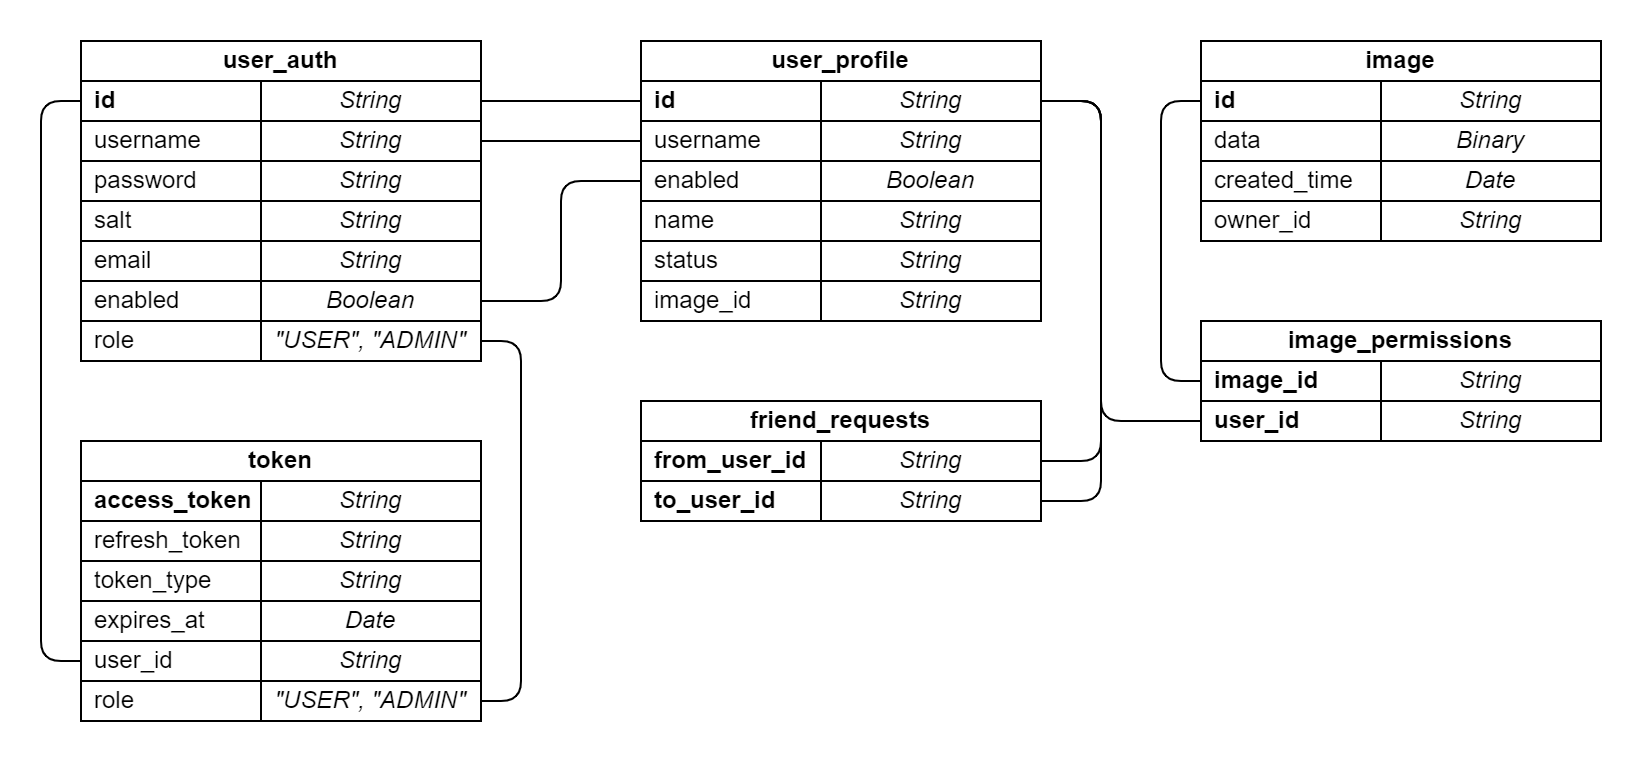
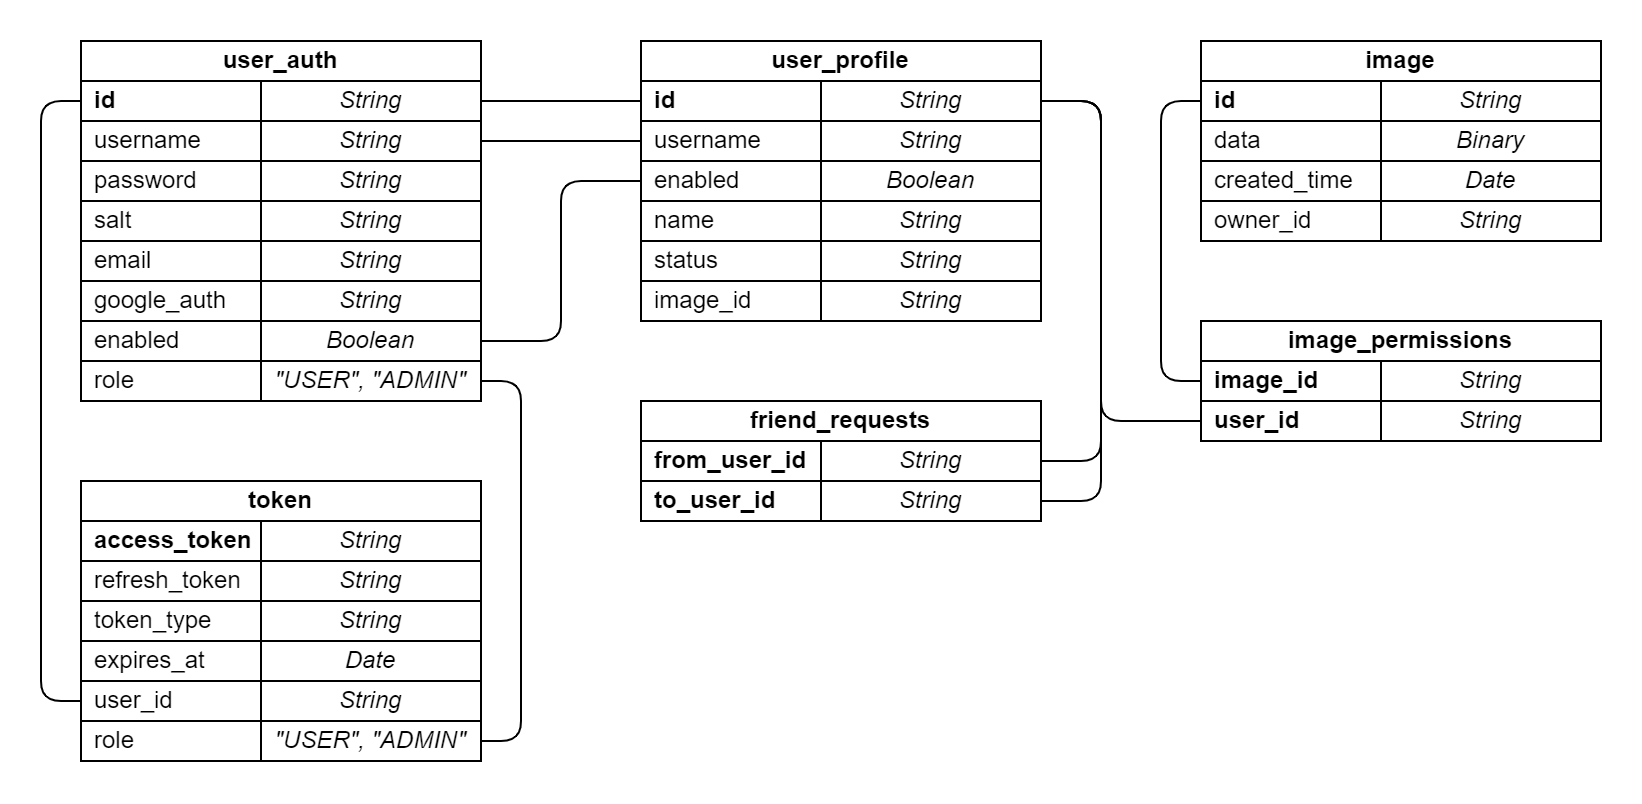
Added auth by Google

diff --git a/src/main/java/ru/drsanches/photobooth/auth/service/GoogleAuthWebService.java b/src/main/java/ru/drsanches/photobooth/auth/service/GoogleAuthWebService.java
@@ -1,0 +1,62 @@
+package ru.drsanches.photobooth.auth.service;
+
+import lombok.extern.slf4j.Slf4j;
+import org.springframework.beans.factory.annotation.Autowired;
+import org.springframework.stereotype.Service;
+import org.springframework.validation.annotation.Validated;
+import ru.drsanches.photobooth.auth.data.dto.GoogleAccessTokenDTO;
+import ru.drsanches.photobooth.auth.data.dto.TokenDTO;
+import ru.drsanches.photobooth.auth.data.model.UserAuth;
+import ru.drsanches.photobooth.auth.service.utils.GoogleAccessTokenValidator;
+import ru.drsanches.photobooth.common.integration.UserIntegrationService;
+import ru.drsanches.photobooth.common.token.TokenService;
+import ru.drsanches.photobooth.common.token.data.Role;
+import ru.drsanches.photobooth.common.token.data.Token;
+import ru.drsanches.photobooth.common.token.data.TokenMapper;
+
+import javax.validation.Valid;
+import java.util.UUID;
+
+@Slf4j
+@Service
+@Validated
+public class GoogleAuthWebService {
+
+    @Autowired
+    private UserAuthDomainService userAuthDomainService;
+
+    @Autowired
+    private UserIntegrationService userIntegrationService;
+
+    @Autowired
+    private GoogleAccessTokenValidator googleAccessTokenValidator;
+
+    @Autowired
+    private TokenService tokenService;
+
+    @Autowired
+    private TokenMapper tokenMapper;
+
+    public TokenDTO registration(@Valid GoogleAccessTokenDTO googleAccessTokenDTO) {
+        String email = googleAccessTokenValidator.getEmail(googleAccessTokenDTO.getAccessToken());
+        UserAuth userAuth = new UserAuth();
+        userAuth.setId(UUID.randomUUID().toString());
+        userAuth.setUsername(UUID.randomUUID().toString());
+        userAuth.setEmail(email);
+        userAuth.setGoogleAuth(email);
+        userAuth.setEnabled(true);
+        userAuth.setRole(Role.USER);
+        userIntegrationService.createUser(userAuth);
+        Token token = tokenService.createToken(userAuth.getId(), userAuth.getRole());
+        log.info("New user with id '{}' has been created", userAuth.getId());
+        return tokenMapper.convert(token);
+    }
+
+    public TokenDTO login(@Valid GoogleAccessTokenDTO googleAccessTokenDTO) {
+        UserAuth userAuth;
+        String email = googleAccessTokenValidator.getEmail(googleAccessTokenDTO.getAccessToken());
+        userAuth = userAuthDomainService.getEnabledByGoogleAuth(email);
+        Token token = tokenService.createToken(userAuth.getId(), userAuth.getRole());
+        return tokenMapper.convert(token);
+    }
+}

diff --git a/src/main/java/ru/drsanches/photobooth/auth/controller/GoogleAuthController.java b/src/main/java/ru/drsanches/photobooth/auth/controller/GoogleAuthController.java
@@ -1,0 +1,44 @@
+package ru.drsanches.photobooth.auth.controller;
+
+import io.swagger.v3.oas.annotations.Operation;
+import org.springframework.beans.factory.annotation.Autowired;
+import org.springframework.http.HttpStatus;
+import org.springframework.http.MediaType;
+import org.springframework.web.bind.annotation.RequestBody;
+import org.springframework.web.bind.annotation.RequestMapping;
+import org.springframework.web.bind.annotation.RequestMethod;
+import org.springframework.web.bind.annotation.ResponseStatus;
+import org.springframework.web.bind.annotation.RestController;
+import ru.drsanches.photobooth.auth.data.dto.GoogleAccessTokenDTO;
+import ru.drsanches.photobooth.auth.data.dto.TokenDTO;
+import ru.drsanches.photobooth.auth.service.GoogleAuthWebService;
+import ru.drsanches.photobooth.common.swagger.ApiResponseCode200;
+import ru.drsanches.photobooth.common.swagger.ApiResponseCode201;
+import ru.drsanches.photobooth.common.swagger.ApiResponseCode400;
+import ru.drsanches.photobooth.common.swagger.ApiResponseCode401;
+
+@RestController
+@RequestMapping(value = "/api/v1/auth/google", produces = MediaType.APPLICATION_JSON_VALUE)
+public class GoogleAuthController {
+
+    @Autowired
+    private GoogleAuthWebService googleAuthWebService;
+
+    @Operation(summary = "Registers new user account and returns user information")
+    @ApiResponseCode201
+    @ApiResponseCode400
+    @ResponseStatus(HttpStatus.CREATED)
+    @RequestMapping(value = "/registration", method = RequestMethod.POST)
+    public TokenDTO registration(@RequestBody GoogleAccessTokenDTO googleAccessTokenDTO) {
+        return googleAuthWebService.registration(googleAccessTokenDTO);
+    }
+
+    @Operation(summary = "Returns authorization tokens")
+    @ApiResponseCode200
+    @ApiResponseCode400
+    @ApiResponseCode401
+    @RequestMapping(value = "/login", method = RequestMethod.POST)
+    public TokenDTO login(@RequestBody GoogleAccessTokenDTO googleAccessTokenDTO) {
+        return googleAuthWebService.login(googleAccessTokenDTO);
+    }
+}

diff --git a/src/main/java/ru/drsanches/photobooth/auth/service/UserAuthDomainService.java b/src/main/java/ru/drsanches/photobooth/auth/service/UserAuthDomainService.java
@@ -5,6 +5,7 @@ import org.springframework.beans.factory.annotation.Autowired;
 import org.springframework.stereotype.Service;
 import ru.drsanches.photobooth.auth.data.model.UserAuth;
 import ru.drsanches.photobooth.auth.data.repository.UserAuthRepository;
+import ru.drsanches.photobooth.exception.auth.NoGoogleUserException;
 import ru.drsanches.photobooth.exception.application.NoUserIdException;
 import ru.drsanches.photobooth.exception.application.NoUsernameException;
 import java.util.Optional;
@@ -33,6 +34,14 @@ public class UserAuthDomainService {
         Optional<UserAuth> user = userAuthRepository.findByUsername(username);
         if (user.isEmpty() || !user.get().isEnabled()) {
             throw new NoUsernameException(username);
+        }
+        return user.get();
+    }
+
+    public UserAuth getEnabledByGoogleAuth(String googleAuth) {
+        Optional<UserAuth> user = userAuthRepository.findByGoogleAuth(googleAuth);
+        if (user.isEmpty() || !user.get().isEnabled()) {
+            throw new NoGoogleUserException();
         }
         return user.get();
     }

diff --git a/src/main/java/ru/drsanches/photobooth/auth/service/utils/GoogleAccessTokenValidator.java b/src/main/java/ru/drsanches/photobooth/auth/service/utils/GoogleAccessTokenValidator.java
@@ -1,0 +1,28 @@
+package ru.drsanches.photobooth.auth.service.utils;
+
+import lombok.Getter;
+import org.springframework.stereotype.Component;
+import org.springframework.web.client.RestTemplate;
+import ru.drsanches.photobooth.exception.auth.GoogleAuthException;
+
+@Component
+public class GoogleAccessTokenValidator {
+
+    //TODO: Fix injection?
+    private final static String URL = "https://www.googleapis.com/oauth2/v3/tokeninfo?access_token=%s";
+
+    public String getEmail(String token) {
+        try {
+            ResponseDTO response = new RestTemplate().getForObject(String.format(URL, token), ResponseDTO.class);
+            return response == null ? null : response.getEmail();
+        } catch (Exception e) {
+            throw new GoogleAuthException(e);
+        }
+    }
+
+    @Getter
+    static class ResponseDTO {
+
+        private String email;
+    }
+}

diff --git a/src/main/java/ru/drsanches/photobooth/exception/application/UserAlreadyExistsException.java b/src/main/java/ru/drsanches/photobooth/exception/application/UserAlreadyExistsException.java
@@ -2,13 +2,13 @@ package ru.drsanches.photobooth.exception.application;
 
 public class UserAlreadyExistsException extends ApplicationException {
 
-    private final static String FORMAT = "Username '%s' already exists";
+    private final static String FORMAT = "User '%s' already exists";
 
-    public UserAlreadyExistsException(String username) {
-        super(String.format(FORMAT, username));
+    public UserAlreadyExistsException(String user) {
+        super(String.format(FORMAT, user));
     }
 
-    public UserAlreadyExistsException(String username, Exception cause) {
-        super(String.format(FORMAT, username), cause);
+    public UserAlreadyExistsException(String user, Exception cause) {
+        super(String.format(FORMAT, user), cause);
     }
 }

diff --git a/src/main/java/ru/drsanches/photobooth/config/WebSecurityConfig.java b/src/main/java/ru/drsanches/photobooth/config/WebSecurityConfig.java
@@ -30,6 +30,8 @@ public class WebSecurityConfig extends WebSecurityConfigurerAdapter {
             x -> x.matches("/api/v1/auth/registration.*"))
             .or(x -> x.matches("/api/v1/auth/login.*"))
             .or(x -> x.matches("/api/v1/auth/refreshToken.*"))
+            .or(x -> x.matches("/api/v1/auth/google/registration.*"))
+            .or(x -> x.matches("/api/v1/auth/google/login.*"))
             .or(x -> x.matches("/api/v1/image/" + ImageInfoMapper.DEFAULT_AVATAR_ID))
             .or(x -> x.matches("/api/v1/image/" + ImageInfoMapper.NO_PHOTO_IMAGE_ID))
             .or(x -> x.matches("/api/v1/image/" + ImageInfoMapper.DELETED_AVATAR_ID))

diff --git a/src/main/java/ru/drsanches/photobooth/common/integration/UserIntegrationService.java b/src/main/java/ru/drsanches/photobooth/common/integration/UserIntegrationService.java
@@ -38,7 +38,8 @@ public class UserIntegrationService {
         try {
             save(userAuth, userProfile);
         } catch(DataIntegrityViolationException e) {
-            throw new UserAlreadyExistsException(userAuth.getUsername(), e);
+            throw new UserAlreadyExistsException(userAuth.getGoogleAuth() != null ?
+                    userAuth.getGoogleAuth() : userAuth.getUsername(), e);
         }
         log.info("UserAuth and UserProfile has been created: {}, {}", userAuth, userProfile);
     }

diff --git a/src/main/java/ru/drsanches/photobooth/auth/data/model/UserAuth.java b/src/main/java/ru/drsanches/photobooth/auth/data/model/UserAuth.java
@@ -26,16 +26,19 @@ public class UserAuth {
     @Column(unique = true, nullable = false)
     private String username;
 
-    @Column(nullable = false)
+    @Column
     @ToString.Exclude
     private String password;
 
-    @Column(nullable = false)
+    @Column
     @ToString.Exclude
     private String salt;
 
     @Column
     private String email;
+
+    @Column(unique = true)
+    private String googleAuth;
 
     @Column(nullable = false)
     private boolean enabled;

diff --git a/src/main/java/ru/drsanches/photobooth/exception/auth/NoGoogleUserException.java b/src/main/java/ru/drsanches/photobooth/exception/auth/NoGoogleUserException.java
@@ -1,0 +1,16 @@
+package ru.drsanches.photobooth.exception.auth;
+
+import ru.drsanches.photobooth.exception.application.ApplicationException;
+
+public class NoGoogleUserException extends ApplicationException {
+
+    private final static String MESSAGE = "There is no user with this google account";
+
+    public NoGoogleUserException() {
+        super(MESSAGE);
+    }
+
+    public NoGoogleUserException(Exception cause) {
+        super(MESSAGE, cause);
+    }
+}

diff --git a/src/main/java/ru/drsanches/photobooth/auth/data/dto/GoogleAccessTokenDTO.java b/src/main/java/ru/drsanches/photobooth/auth/data/dto/GoogleAccessTokenDTO.java
@@ -1,0 +1,18 @@
+package ru.drsanches.photobooth.auth.data.dto;
+
+import io.swagger.v3.oas.annotations.media.Schema;
+import lombok.Getter;
+import lombok.Setter;
+import lombok.ToString;
+import org.hibernate.validator.constraints.NotEmpty;
+
+@Getter
+@Setter
+@ToString
+public class GoogleAccessTokenDTO {
+
+    @NotEmpty
+    @ToString.Exclude
+    @Schema(required = true, description = "Google OAuth access token")
+    private String accessToken;
+}

diff --git a/src/main/java/ru/drsanches/photobooth/auth/service/UserAuthWebService.java b/src/main/java/ru/drsanches/photobooth/auth/service/UserAuthWebService.java
@@ -134,6 +134,7 @@ public class UserAuthWebService {
         tokenService.removeAllTokens(userId);
         current.setEnabled(false);
         current.setUsername(UUID.randomUUID().toString() + "_" + current.getUsername());
+        current.setGoogleAuth(UUID.randomUUID().toString() + "_" + current.getGoogleAuth());
         userIntegrationService.updateUser(current);
         log.info("User with id '{}' has been disabled", current.getId());
     }

diff --git a/src/main/java/ru/drsanches/photobooth/exception/auth/GoogleAuthException.java b/src/main/java/ru/drsanches/photobooth/exception/auth/GoogleAuthException.java
@@ -1,0 +1,14 @@
+package ru.drsanches.photobooth.exception.auth;
+
+public class GoogleAuthException extends AuthException {
+
+    private static final String MESSAGE = "Google auth error";
+
+    public GoogleAuthException() {
+        super(MESSAGE);
+    }
+
+    public GoogleAuthException(Exception cause) {
+        super(MESSAGE, cause);
+    }
+}
